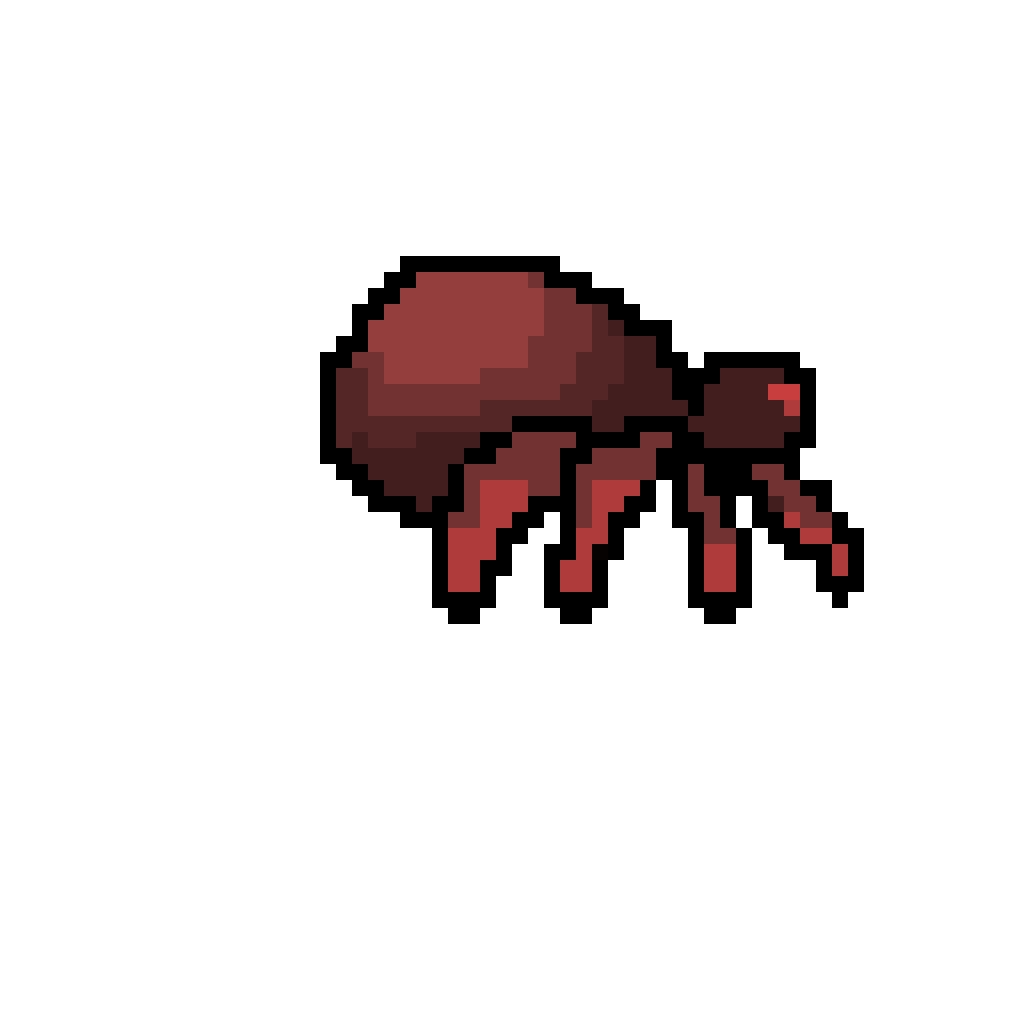
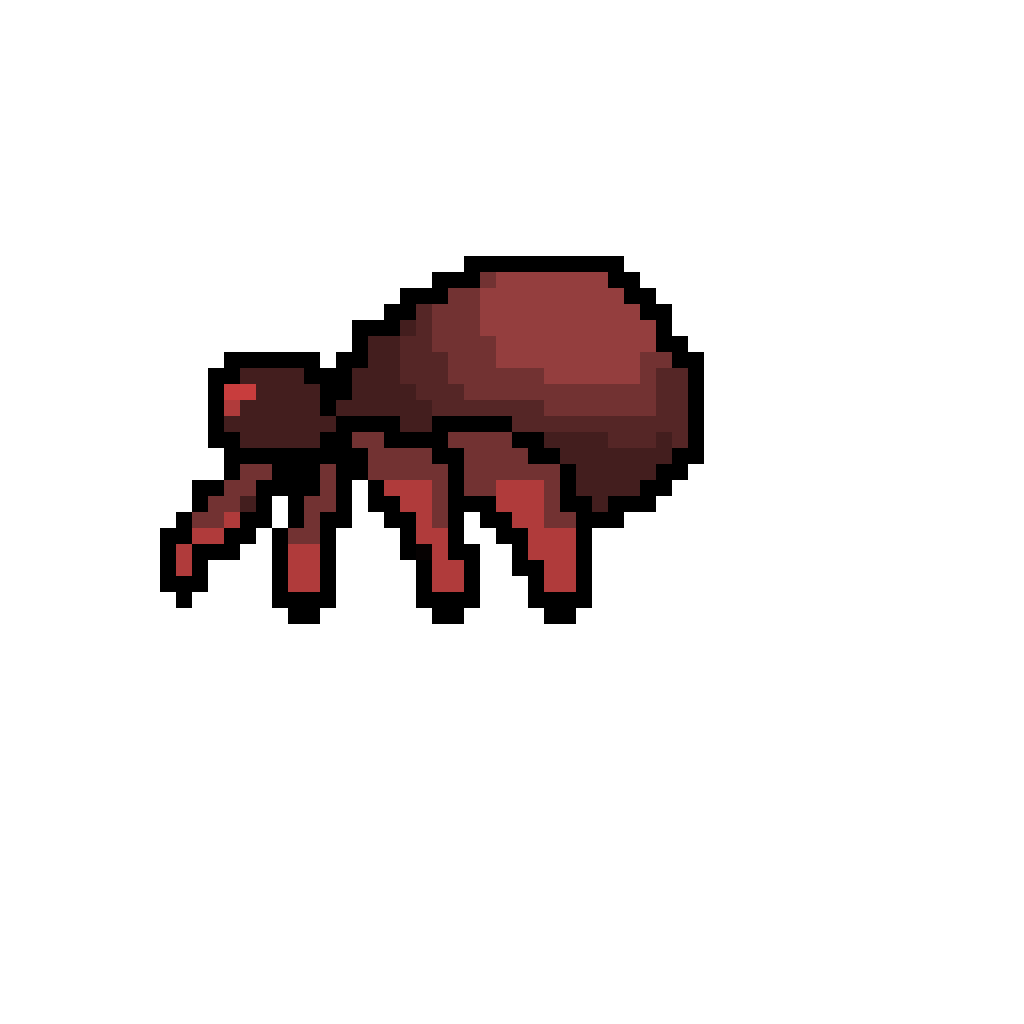
Added image and image flip for Mites Fixed mob idling

Changed region(s): [[0.1562, 0.25, 0.8438, 0.625]]

diff --git a/Level.java b/Level.java
@@ -1,23 +1,31 @@
-import greenfoot.Greenfoot;
-import greenfoot.GreenfootImage;
-import greenfoot.World;
 import greenfoot.*;
 
+import java.io.File;
+import java.io.FileNotFoundException;
+import java.util.ArrayList;
+import java.util.Scanner;
+import java.util.StringTokenizer;
+
 public class Level extends World {
+    protected static int totalCoins = 0;
     protected final ImgScroll scroll;
     private final int[] worldSize = {2560, 720};
     private final String background = "2dPixelForestBackground.png";
+    private final Font font = new Font("Arial", 18);
+    private final int lv = 0;
     protected Player player;
-    private Orb orb;
-    private Font font = new Font("Arial", 18);
     protected SuperDisplayLabel coinLabel = new SuperDisplayLabel(Color.BLACK, Color.WHITE, font);
-    protected static int totalCoins = 0;
+    private Orb orb;
 
     public Level() {
         super(1280, 720, 1, false);
         scroll = new ImgScroll(this, new GreenfootImage(background), worldSize[0], worldSize[1]);
         addObject(coinLabel, 1100, 10);
         coinLabel.update("Coins: " + totalCoins);
+    }
+
+    public static void addToTotalCoin() {
+        totalCoins++;
     }
 
     public void act() {
@@ -70,8 +78,22 @@ public class Level extends World {
         mapBoundary[1] = scroll.getScrollWidth() + scroll.getScrolledX();
         return mapBoundary;
     }
-    
-    public static void addToTotalCoin(){
-        totalCoins++;
+
+    public void loadLevel() throws FileNotFoundException {
+        Scanner scan = new Scanner(new File("level" + lv));
+        ArrayList<String> data = new ArrayList<String>();
+        while (scan.hasNextLine()) {
+            data.add(scan.nextLine());
+        }
+
+        int[][] blocks = new int[data.size()][data.size()];
+        for (String line : data) {
+            StringTokenizer st = new StringTokenizer(line, ",");
+            ArrayList<String> lineData = new ArrayList<String>();
+            while (st.hasMoreTokens()) {
+                lineData.add(st.nextToken());
+            }
+            blocks[Integer.parseInt(lineData.get(0))][Integer.parseInt(lineData.get(1))] = Integer.parseInt(lineData.get(2));
+        }
     }
 }

diff --git a/Mites.java b/Mites.java
@@ -1,3 +1,4 @@
+import greenfoot.GreenfootImage;
 import greenfoot.World;
 
 public class Mites extends Mobs {
@@ -5,6 +6,7 @@ public class Mites extends Mobs {
     private final int dmg;
     private final int speed;
     private final int direction = 1;
+    private final GreenfootImage image;
     private Level w;
     private int movementAct;
     private int jumpAct;
@@ -13,6 +15,7 @@ public class Mites extends Mobs {
         hp = 2;
         dmg = 1;
         speed = 2;
+        image = new GreenfootImage("images/mites.png");
     }
 
     public void addedToWorld(World w) {
@@ -23,8 +26,13 @@ public class Mites extends Mobs {
         movementAct--;
         jumpAct--;
         movement();
+        bounceWall();
         collision();
         fall();
+    }
+
+    private void flipImage() {
+        image.mirrorHorizontally();
     }
 
     private void fall() {

diff --git a/RedBee.java b/RedBee.java
@@ -2,13 +2,13 @@ public class RedBee extends Bee {
     private final int range;
     private final int direction = 1;
     private int hp;
-    private int baseSpeed;
+    private int curSpeed;
     private int speed;
 
     public RedBee() {
         super();
         hp = 2;
-        baseSpeed = 2;
+        speed = 2;
         range = 100;
     }
 
@@ -19,7 +19,7 @@ public class RedBee extends Bee {
     @Override
     public void act() {
         super.act();
-        speed = baseSpeed;
+        curSpeed = speed;
         if (getPlayer(range) != null) {
             sprint();
         } else {
@@ -34,7 +34,7 @@ public class RedBee extends Bee {
     private void sprint() {
         Player p = getPlayer(range);
         turnTowards(p);
-        speed = baseSpeed * 2;
-        move(speed);
+        curSpeed = speed * 2;
+        move(curSpeed);
     }
 }

diff --git a/Mobs.java b/Mobs.java
@@ -5,7 +5,7 @@ import java.util.List;
 public abstract class Mobs extends SuperSmoothMover {
     public World w;
     private int hp;
-    private int speed;
+    private int speed = 2;
     private int dmg;
     private int direction = 1;
 
@@ -51,11 +51,17 @@ public abstract class Mobs extends SuperSmoothMover {
         }
     }
 
+    protected void bounceWall() {
+        if (getOneObjectAtOffset(direction * getImage().getWidth() + 1, 0, Brick.class) != null) {
+            direction *= -1;
+        }
+    }
+
     protected void idle() {
         if (getWorld() == null) {
             return;
         }
-        turnTowards(direction * 99999, getY());
+        turnTowards(getX() + direction, getY());
         if (getOneObjectAtOffset(direction * getImage().getWidth() + 1, 0, Brick.class) != null) {
             direction *= -1;
         } else {

diff --git a/Level0.java b/Level0.java
@@ -38,7 +38,7 @@ public class Level0 extends Level {
         addObject(new BlueBee(), 800, 600);
         addObject(new RedBee(), 100, 600);
         addObject(new Spider(), 750, 600);
-        addObject(new Mites(), 1000, 600);
+        addObject(new Mites(), 150, 600);
     }
 
     public void act() {
@@ -46,9 +46,5 @@ public class Level0 extends Level {
         coinLabel.setLocation(getWidth() / 2, 20);
         scroll.scroll(getWidth() / 2 - player.getX(), getHeight() / 2 - player.getY());
         checkNext();
-    }
-
-    public void loadLevel() {
-        // placeholder if we ever store map data in csv
     }
 }
